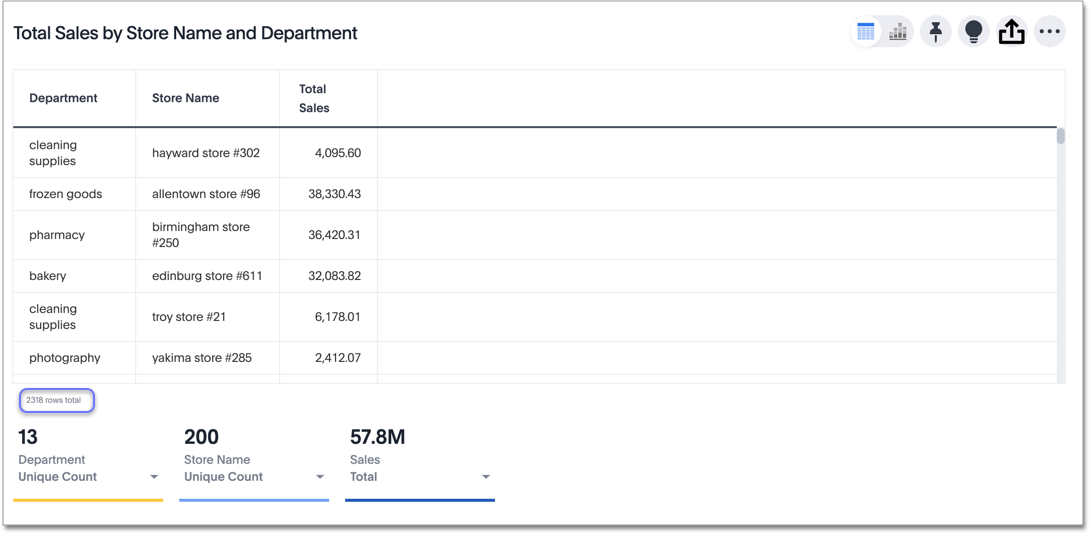
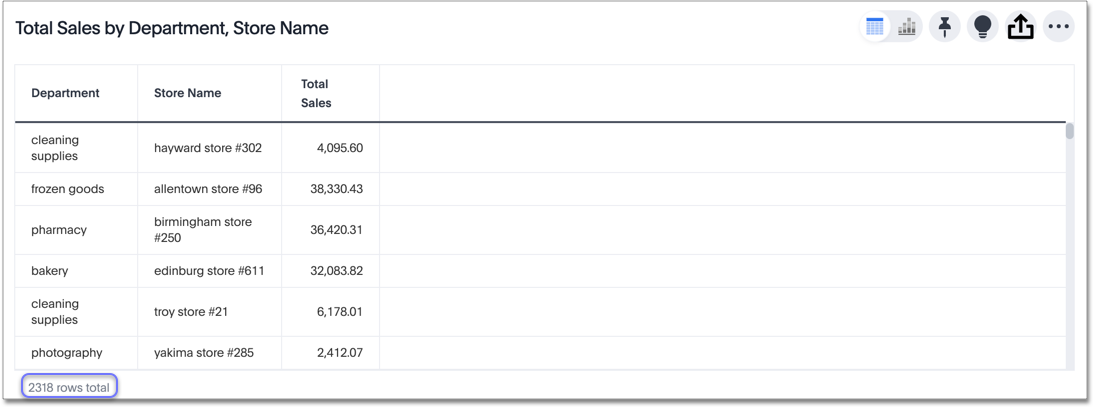
high cardinality minor fixes -- column summaries, pivot table 100k limitation

diff --git a/_complex-search/about-pivoting-a-table.md b/_complex-search/about-pivoting-a-table.md
@@ -13,7 +13,7 @@ If you would like to visualize your search as a pivot table, click on the **chan
 
 ![Select 'pivot table']({{ site.baseurl }}/images/charts-pivot-table.png "Select 'pivot table'")
 
-You can restructure your pivot table by dragging and dropping the measures and attributes under **edit chart configuration** []({{ site.baseurl }}/images/icon-gear-10px.png){: .inline}, or by dragging and dropping column headings on the table itself.
+You can restructure your pivot table by dragging and dropping the measures and attributes under **edit chart configuration** ![]({{ site.baseurl }}/images/icon-gear-10px.png){: .inline}, or by dragging and dropping column headings on the table itself.
 
 If you right-click a row or column heading, the system displays a contextual sort menu, or allows you to remove all sorting:
 
@@ -34,7 +34,7 @@ When you pin a pivot table to a Pinboard, it retains your expansion settings.
 
 You can see your data as a percent of a row or column total, or as a percent of the grand total. Grand totals aggregate all the data in your pivot table.
 
-To see your data as a percent, click the **edit chart configuration** []({{ site.baseurl }}/images/icon-gear-10px.png){: .inline} icon, and click **settings** at the bottom of the chart configuration panel. Click on the dropdown menu to choose whether you want to see your data as a percent of a row or column total, or as a percent of the grand total.
+To see your data as a percent, click the **edit chart configuration** ![]({{ site.baseurl }}/images/icon-gear-10px.png){: .inline} icon, and click **settings** at the bottom of the chart configuration panel. Click on the dropdown menu to choose whether you want to see your data as a percent of a row or column total, or as a percent of the grand total.
 
 ![See your data as a percent]({{ site.baseurl }}/images/chart-pivot-table-grand-total.png "See your data as a percent")
 
@@ -66,11 +66,12 @@ others within the table.
 
 ![Heatmap mode]({{ site.baseurl }}/images/chart-pivot-table-heatmap.png "Heatmap mode")
 
-To turn on the heatmap, click the **edit chart configuration** []({{ site.baseurl }}/images/icon-gear-10px.png){: .inline} icon, and click **settings** at the bottom of the chart configuration panel. Select **heatmap mode**.
+To turn on the heatmap, click the **edit chart configuration** ![]({{ site.baseurl }}/images/icon-gear-10px.png){: .inline} icon, and click **settings** at the bottom of the chart configuration panel. Select **heatmap mode**.
 
 ## Pivot table limitations
 
 The pivot table chart type has these limitations:
 
+- The pivot table displays a maximum of 100k rows. If your query returns more than 100k rows, you cannot visualize it with a pivot table.
 - You cannot show underlying data.
 - You cannot use conditional formatting.

diff --git a/_end-user/search/high-cardinality.md b/_end-user/search/high-cardinality.md
@@ -1,6 +1,6 @@
 ---
 title: [Charts and tables that display a very large number of data values]
-last_updated: 6/12/2020
+last_updated: 6/19/2020
 summary: "ThoughtSpot's charts and tables can support many data values, and you can easily understand how much of the data your chart or table displays."
 sidebar: mydoc_sidebar
 permalink: /:collection/:path.html
@@ -11,6 +11,8 @@ permalink: /:collection/:path.html
 ThoughtSpot tables are no longer limited to 1000 rows. Now, you can see exactly how many rows your table displays. Here, the table has 2318 rows:
 
 ![High cardinality table example]({{ site.baseurl }}/images/cardinality-table-rows.png "High cardinality table example")
+
+Column summaries are not available for tables with more than 1000 rows. 
 
 ## High cardinality charts
 
